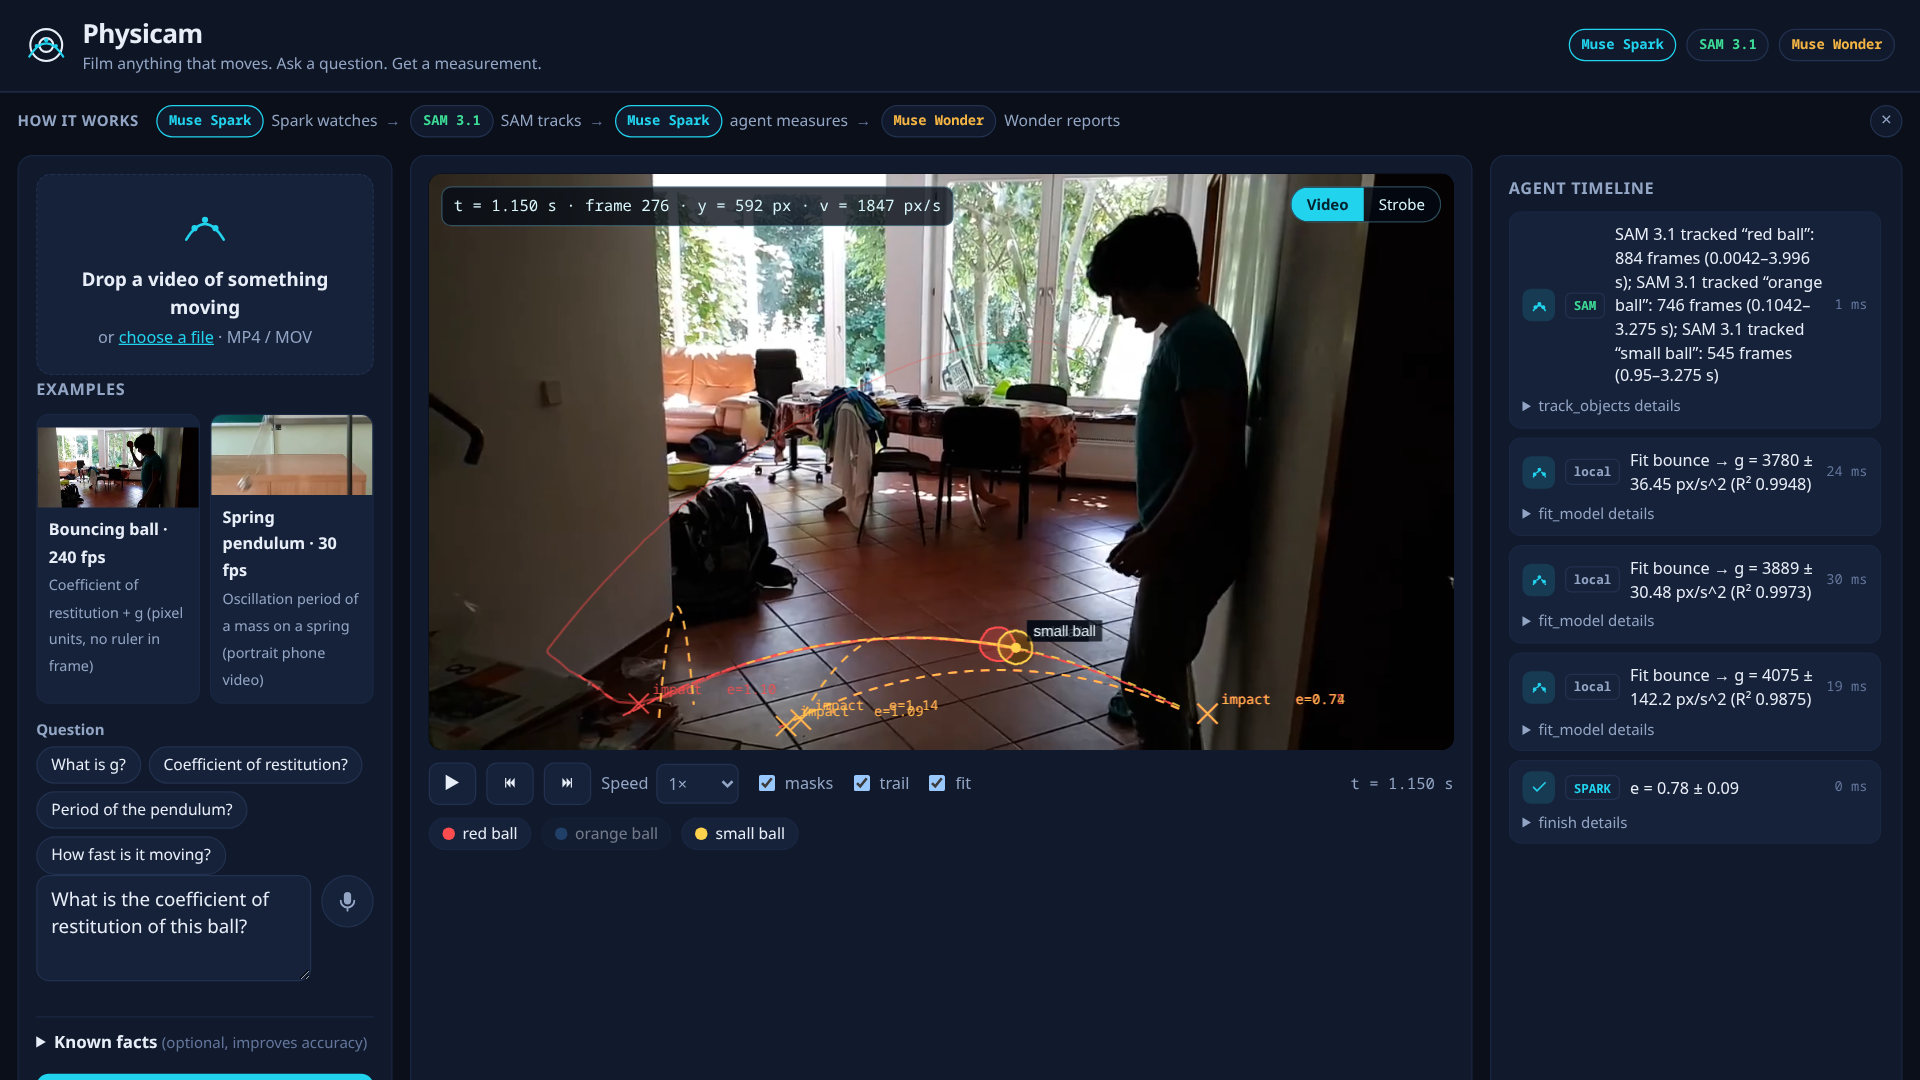
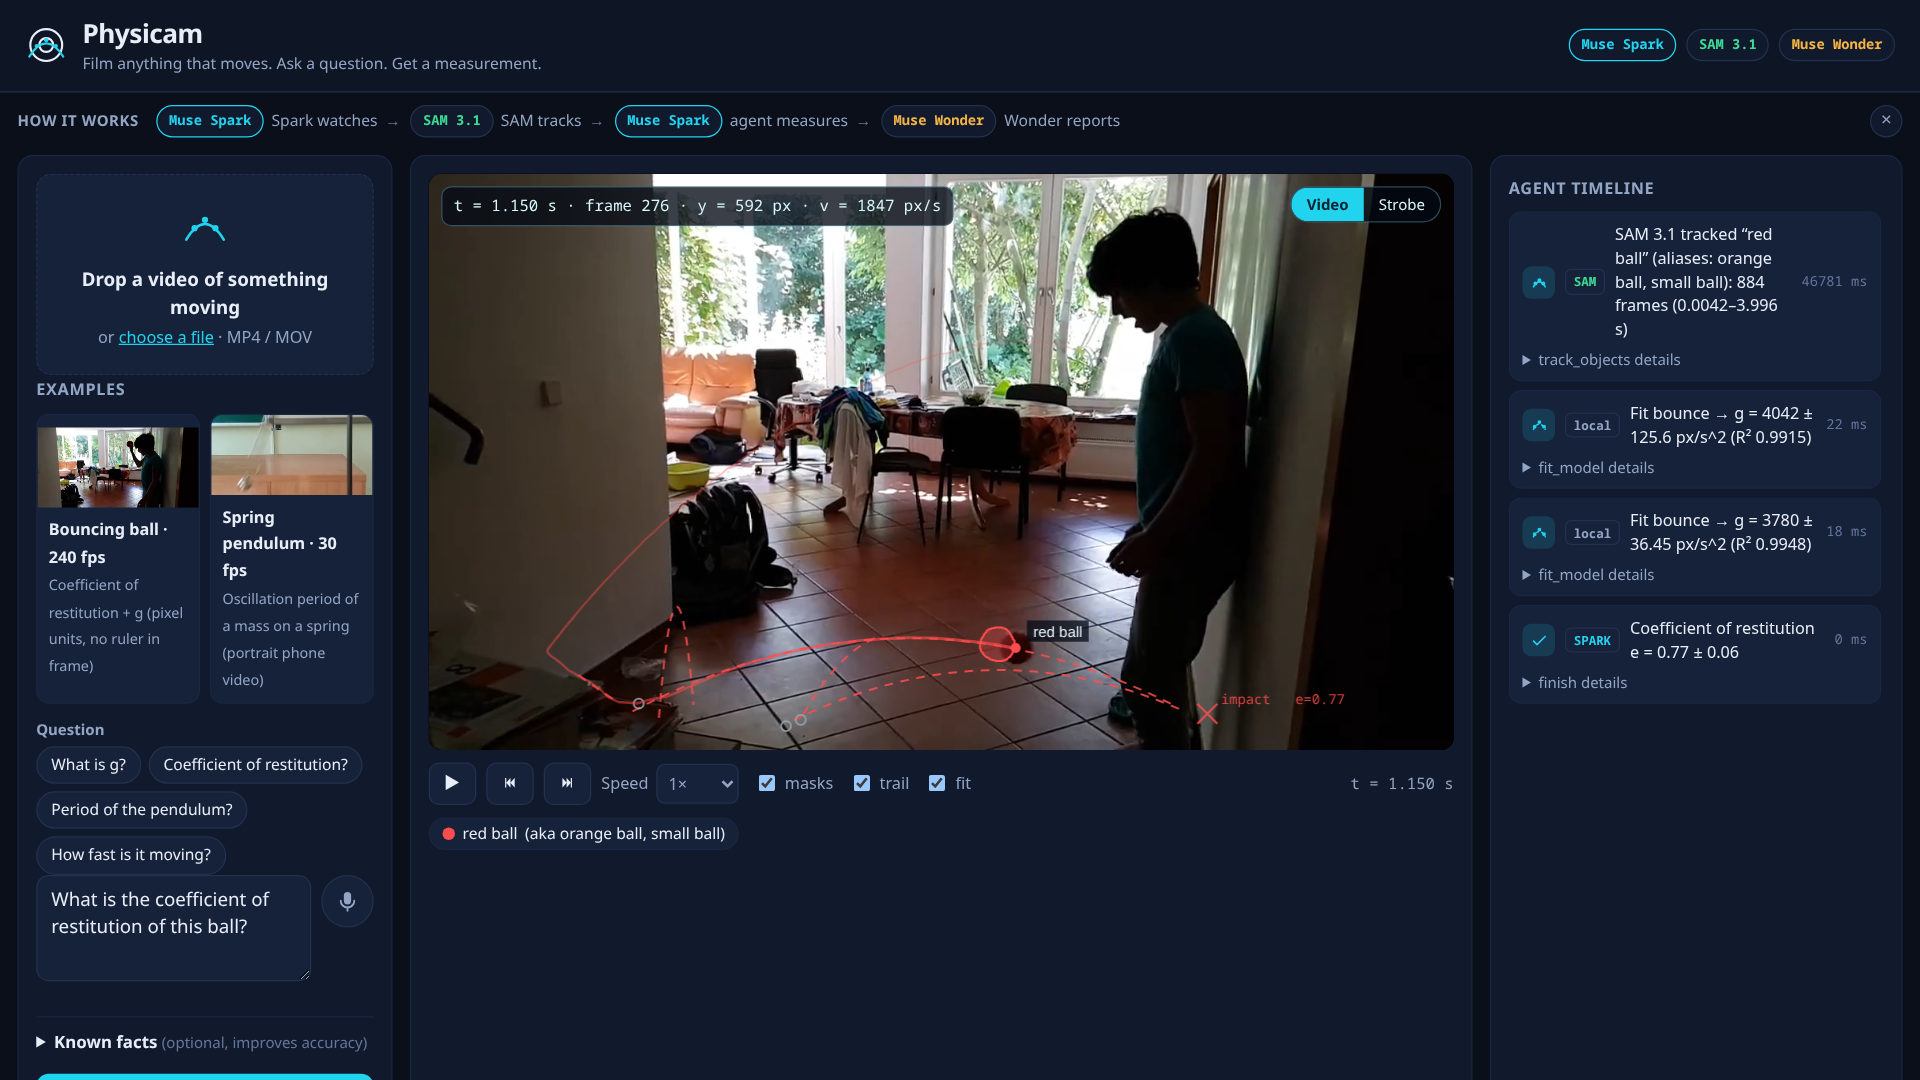
README: real screenshots (live run, results, strobe) and architecture figure

diff --git a/README.md b/README.md
@@ -2,7 +2,13 @@
 
 **Film anything that moves. Ask a question. Get a measurement with error bars.**
 
-![Physicam hero](docs/img/hero.png)
+![Physicam: live run on a real 240 fps clip, with SAM 3.1 mask, fading trail, fitted parabolas and impacts](docs/img/hero.png)
+
+| Result with honest uncertainty | Stroboscopic composite from SAM masks |
+| --- | --- |
+| ![results](docs/img/results.png) | ![strobe](docs/img/strobe_view.png) |
+
+![How Physicam works](docs/img/architecture.png)
 
 ## Why
 
